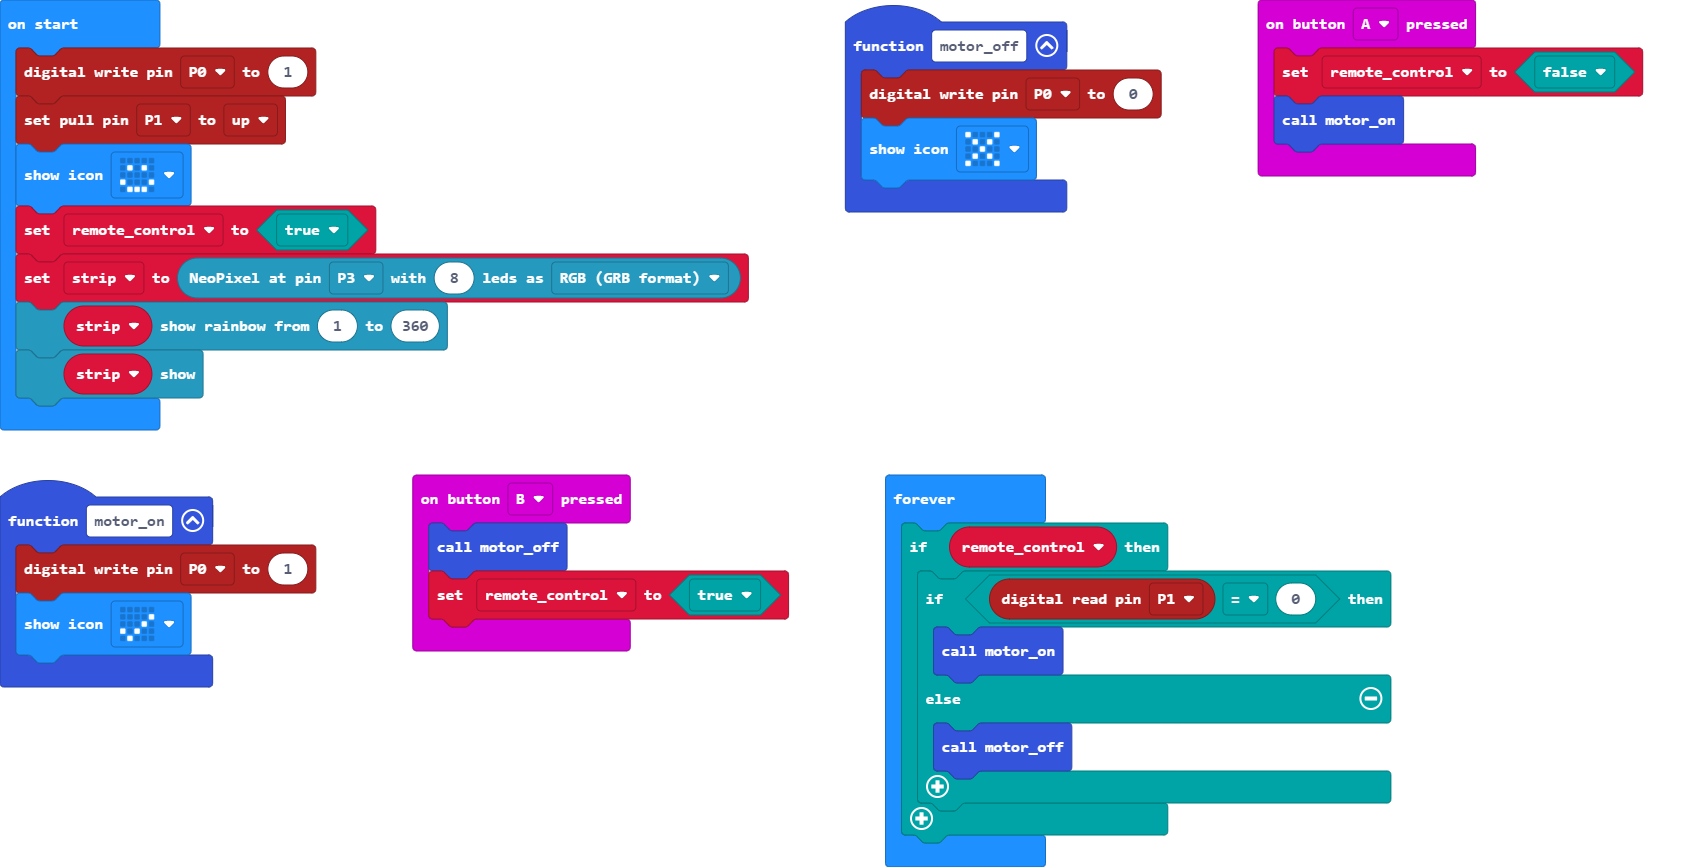
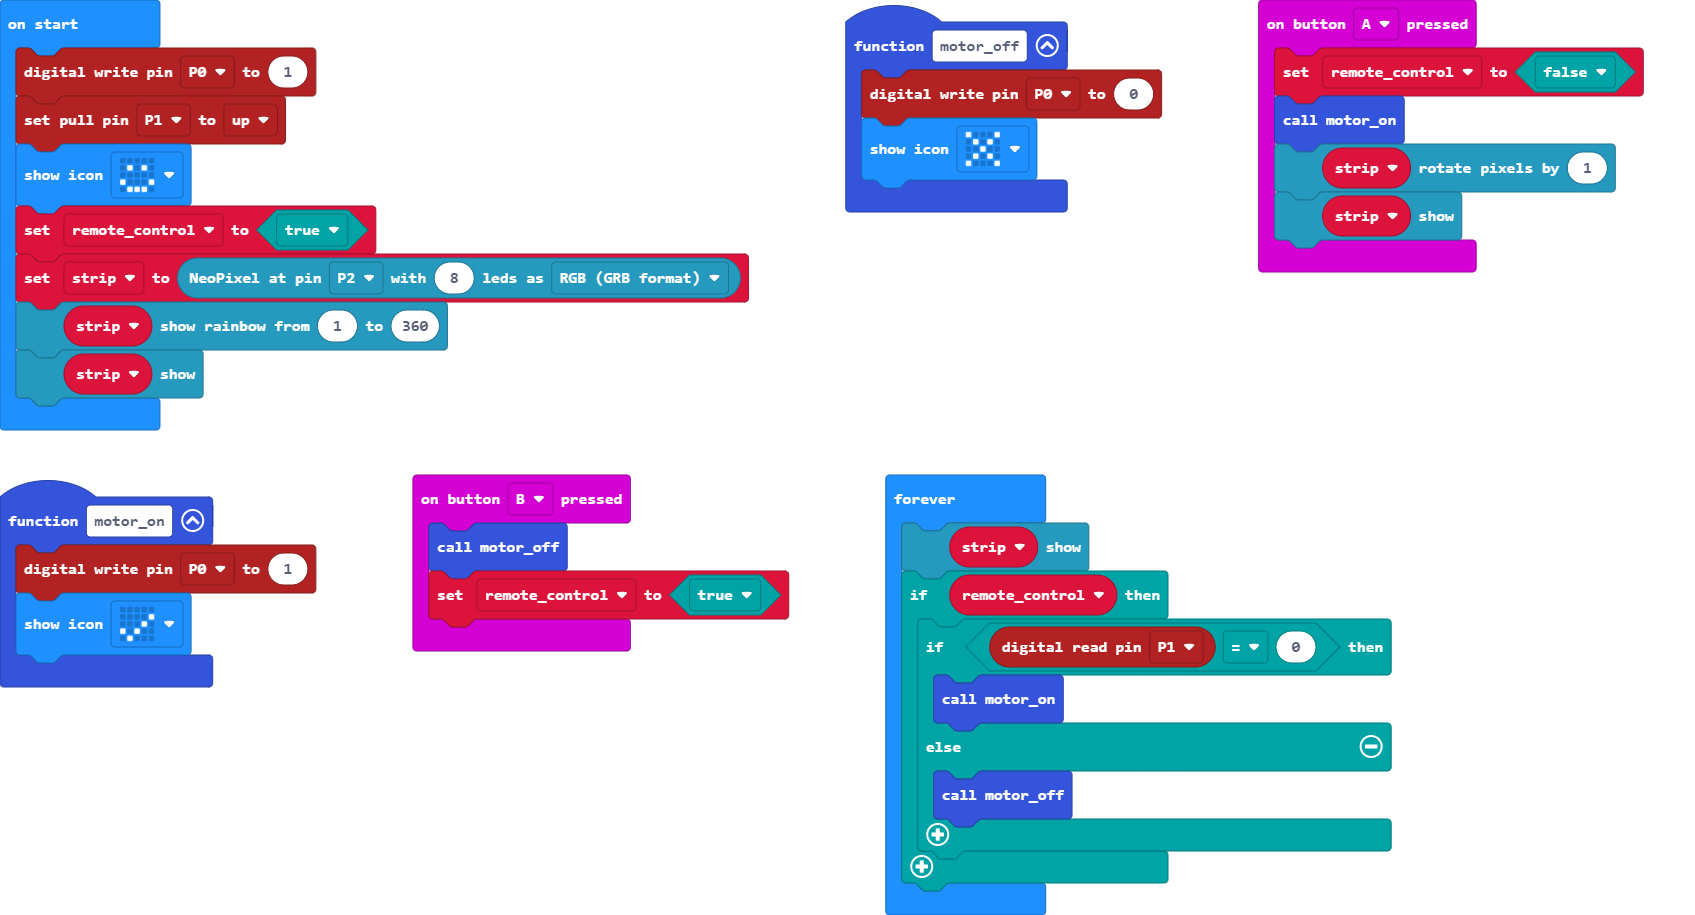
Update main.blocks, main.ts, main.py

diff --git a/main.ts b/main.ts
@@ -20,12 +20,13 @@ function motor_on() {
     basic.showIcon(IconNames.Yes)
 }
 
+let strip : neopixel.Strip = null
 let remote_control = false
 pins.digitalWritePin(DigitalPin.P0, 1)
 pins.setPull(DigitalPin.P1, PinPullMode.PullUp)
 basic.showIcon(IconNames.Happy)
 remote_control = true
-let strip = neopixel.create(DigitalPin.P2, 8, NeoPixelMode.RGB)
+strip = neopixel.create(DigitalPin.P2, 8, NeoPixelMode.RGB)
 strip.showRainbow(1, 360)
 strip.show()
 basic.forever(function on_forever() {

diff --git a/main.py b/main.py
@@ -8,7 +8,6 @@ def on_button_pressed_a():
     motor_on()
     strip.rotate(1)
     strip.show()
-    
 input.on_button_pressed(Button.A, on_button_pressed_a)
 
 def on_button_pressed_b():
@@ -20,6 +19,7 @@ input.on_button_pressed(Button.B, on_button_pressed_b)
 def motor_on():
     pins.digital_write_pin(DigitalPin.P0, 1)
     basic.show_icon(IconNames.YES)
+strip: neopixel.Strip = None
 remote_control = False
 pins.digital_write_pin(DigitalPin.P0, 1)
 pins.set_pull(DigitalPin.P1, PinPullMode.PULL_UP)
